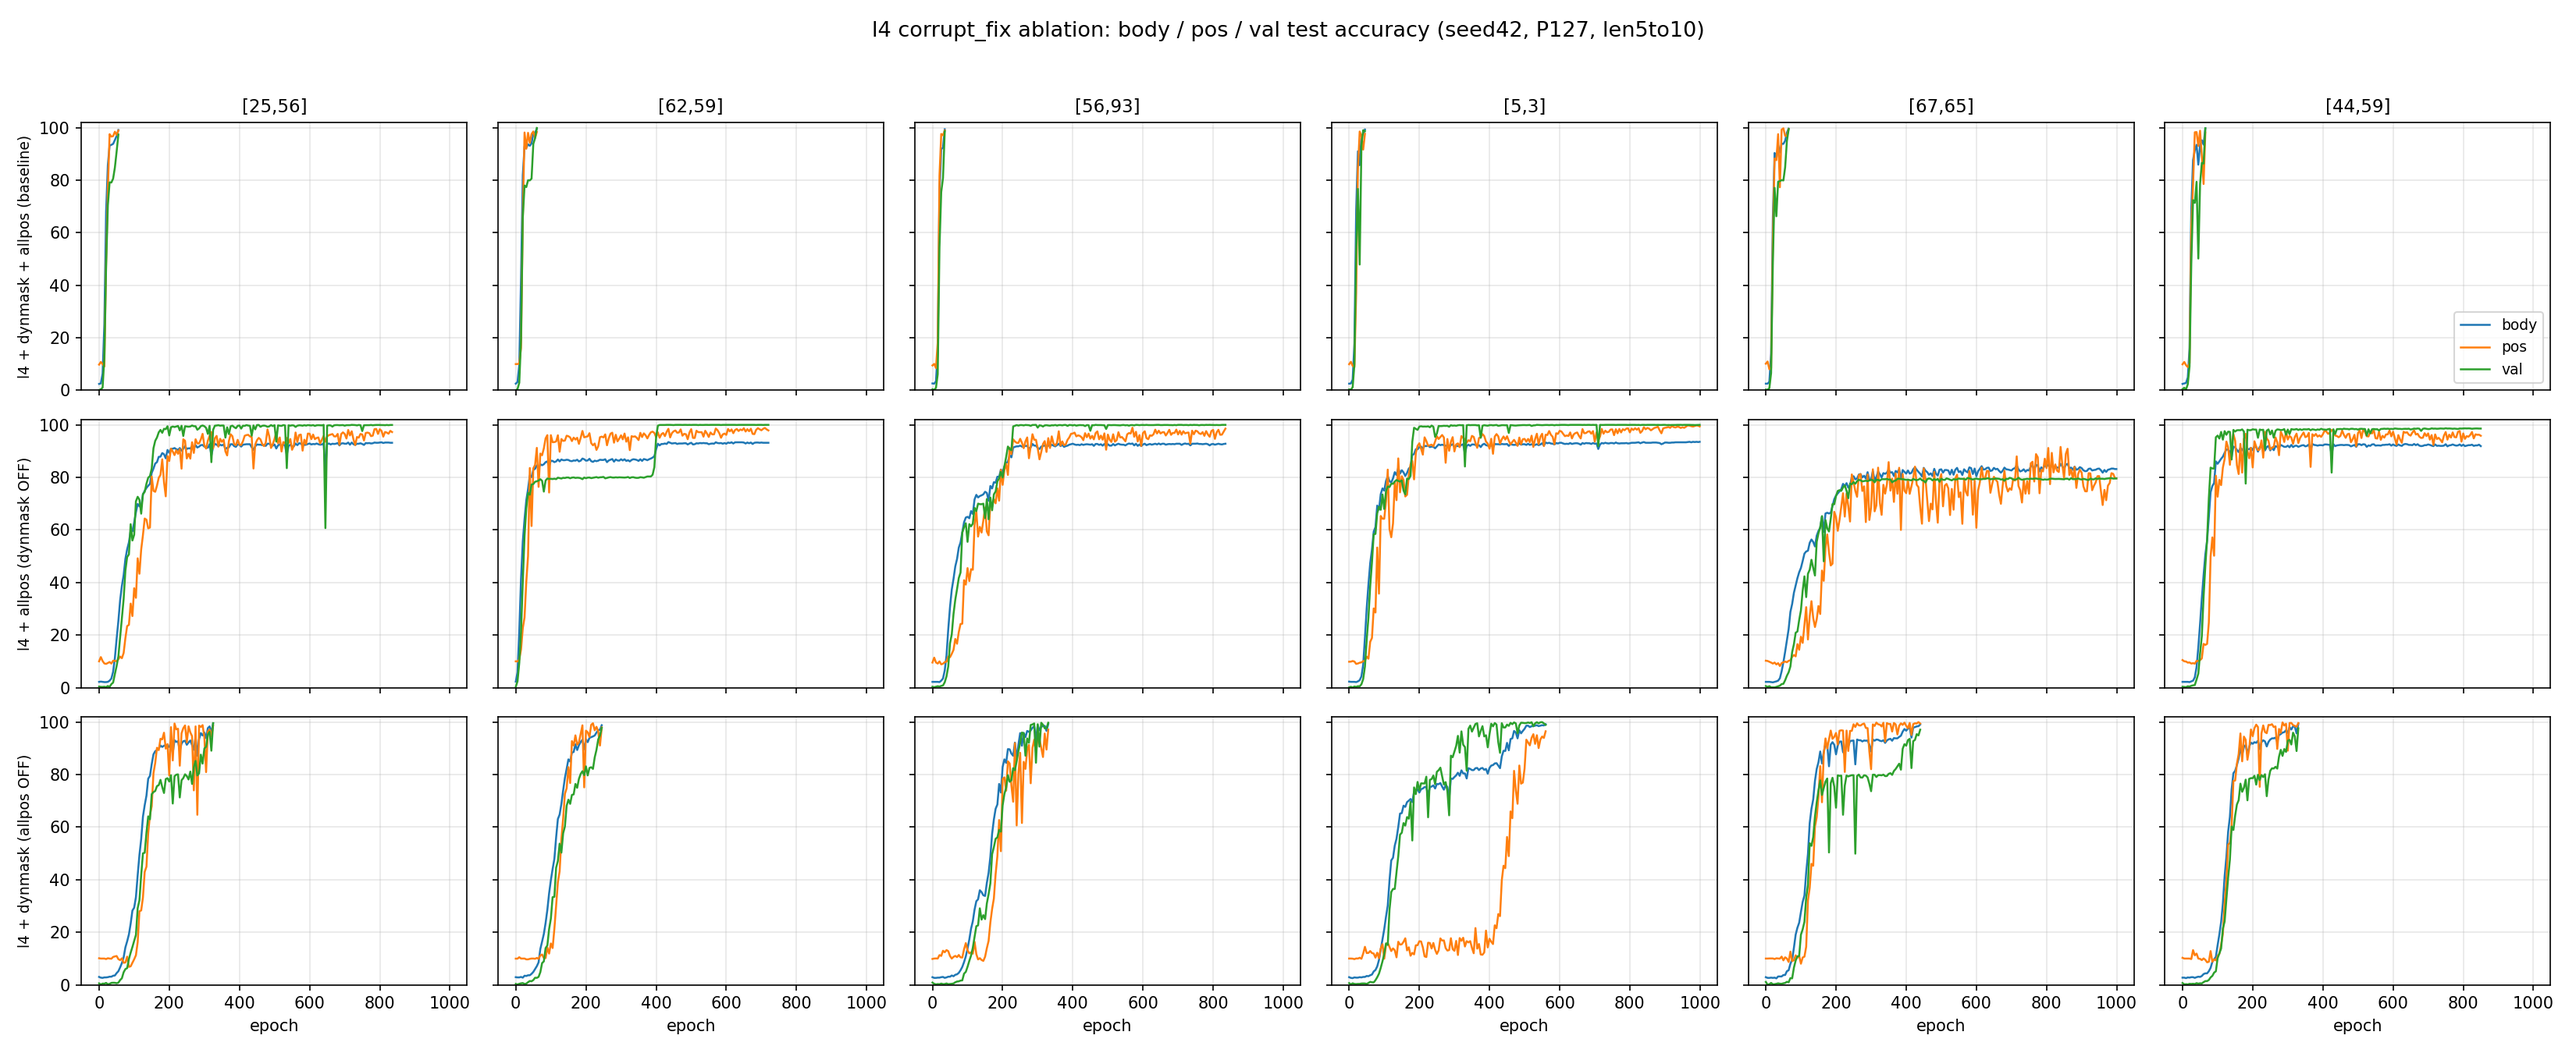
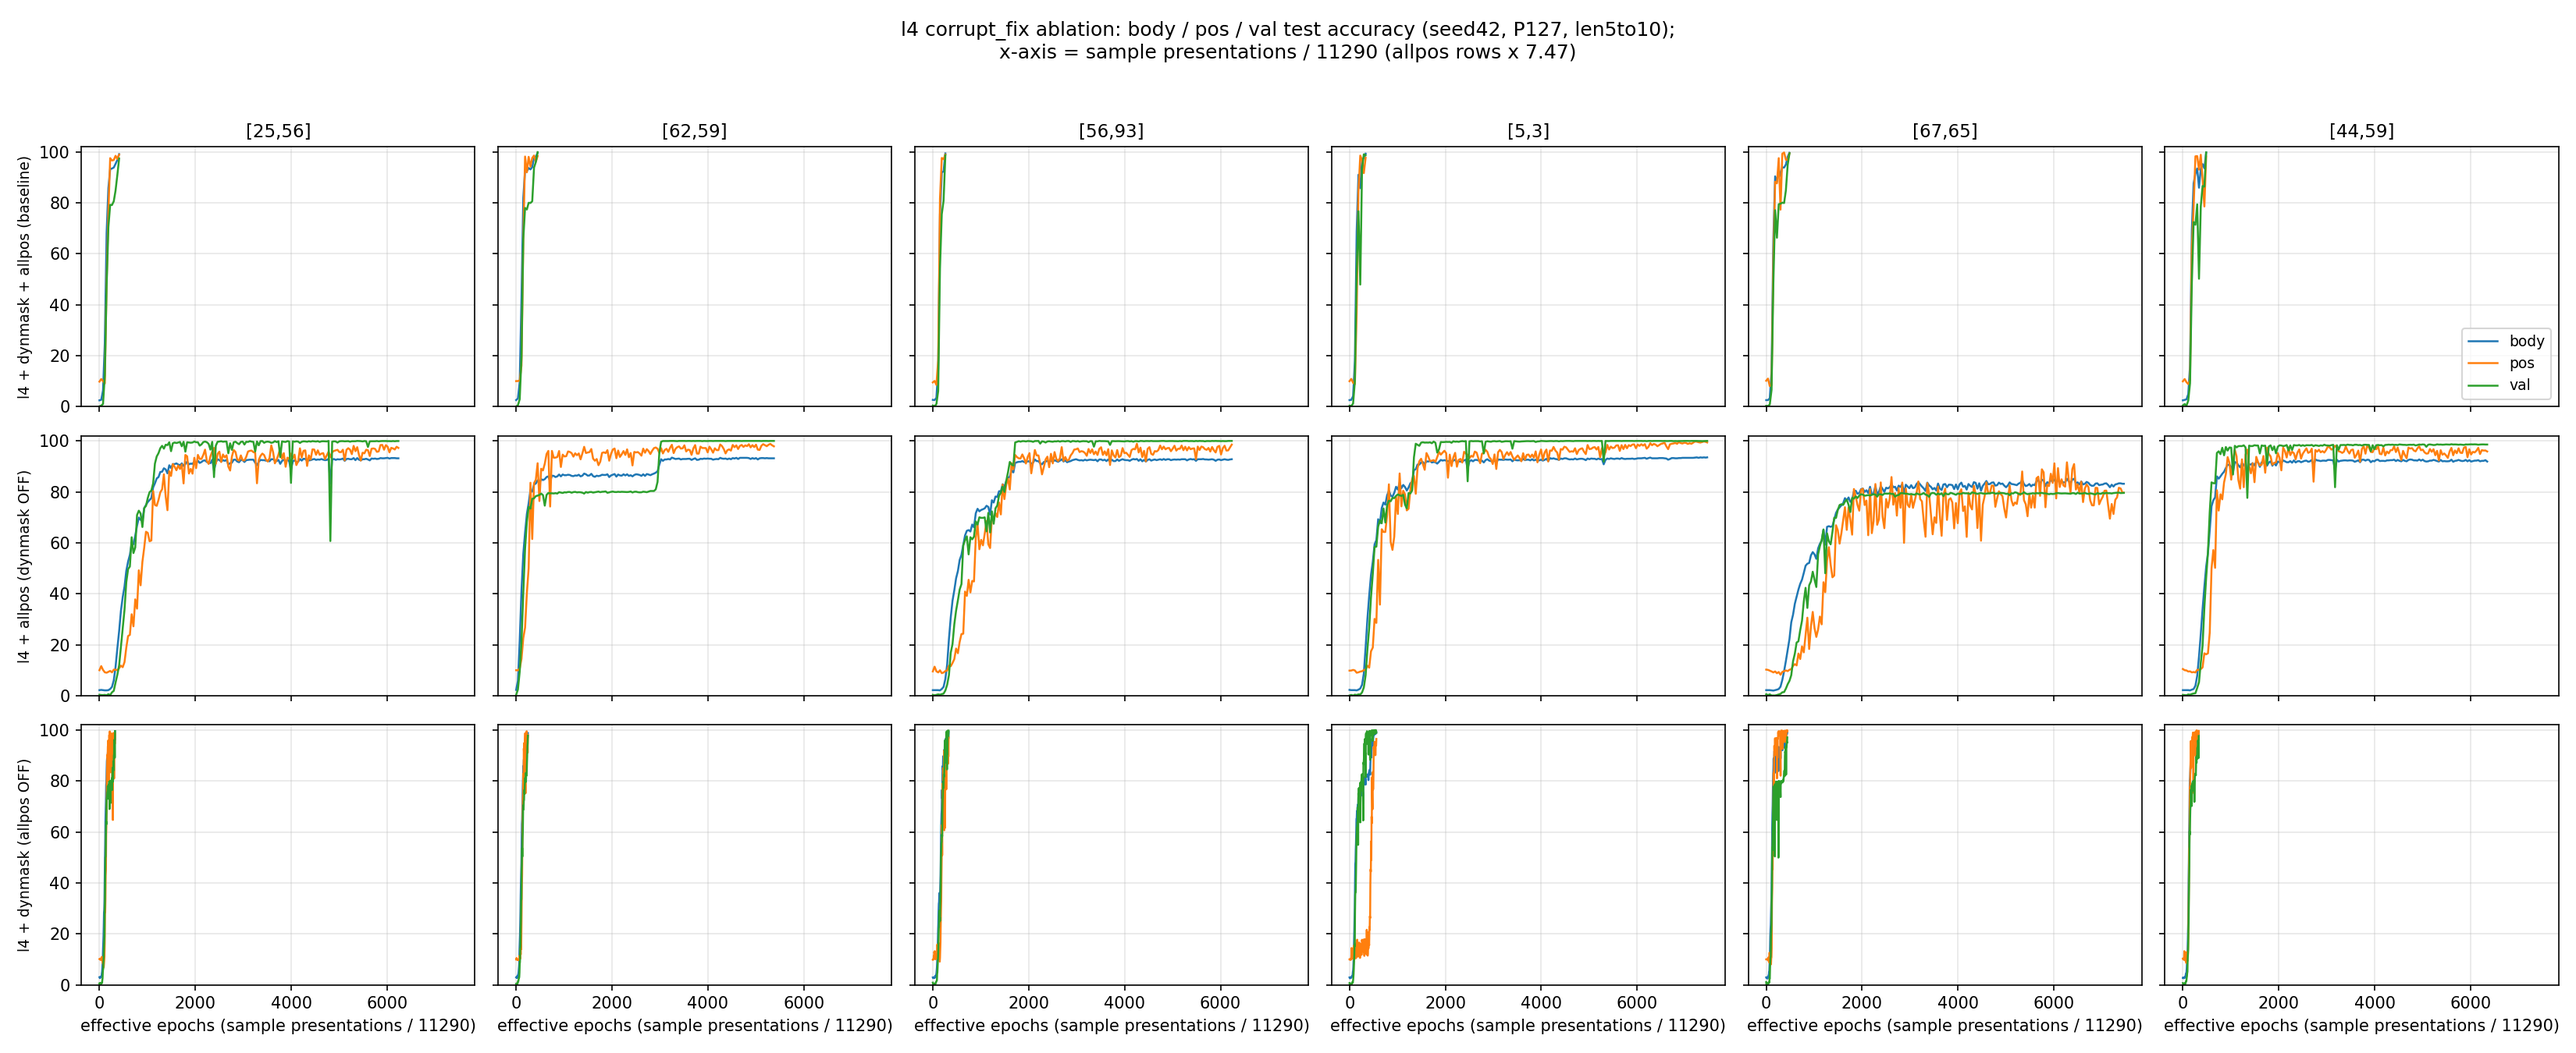
l4 ablation fig: normalize x-axis to sample presentations (allpos rows x7.47)
allpos-on rows converging at ~260-490 effective epochs vs allpos-off
~245-560 confirms allpos buys no sample efficiency

diff --git a/scripts/plot_l4_ablation_3x6.py b/scripts/plot_l4_ablation_3x6.py
@@ -12,10 +12,14 @@ PP_RE = re.compile(r'PosProbe (pos|val)\| (.*)')
 KV_RE = re.compile(r'k(\d+)=([\d.]+)')
 
 ROWS = [
-    ('l4 + dynmask + allpos (baseline)', 'variant_o2_corruptfix_allpos_dynmask_d512l4_P127_len5to10', 'allpos_dynmask'),
-    ('l4 + allpos (dynmask OFF)', 'variant_o2_corruptfix_allpos_d512l4_P127_len5to10', 'allpos'),
-    ('l4 + dynmask (allpos OFF)', 'variant_o2_corruptfix_dynmask_d512l4_P127_len5to10', 'dynmask'),
+    # (label, dirname, suffix, allpos_on)  allpos_on -> x 轴乘以每窗口展开倍数
+    # （一个 allpos epoch = 每个窗口在全部 ~7.47 个位置各出现一次 = 7.47 个 allpos-off epoch 的呈现量）
+    ('l4 + dynmask + allpos (baseline)', 'variant_o2_corruptfix_allpos_dynmask_d512l4_P127_len5to10', 'allpos_dynmask', True),
+    ('l4 + allpos (dynmask OFF)', 'variant_o2_corruptfix_allpos_d512l4_P127_len5to10', 'allpos', True),
+    ('l4 + dynmask (allpos OFF)', 'variant_o2_corruptfix_dynmask_d512l4_P127_len5to10', 'dynmask', False),
 ]
+# 84307 (allpos 展开) / 11290 (原始窗数) = 平均窗口长 ≈ 7.47
+ALLPOS_FACTOR = 84307 / 11290
 COEFS = [(25,56),(62,59),(56,93),(5,3),(67,65),(44,59)]
 
 
@@ -48,7 +52,7 @@ def parse(path):
 
 
 fig, axes = plt.subplots(3, 6, figsize=(22, 9), sharex=True, sharey=True)
-for r, (rowlabel, dirname, suffix) in enumerate(ROWS):
+for r, (rowlabel, dirname, suffix, allpos_on) in enumerate(ROWS):
     for c, (a, b) in enumerate(COEFS):
         ax = axes[r][c]
         pat = f'/data/cxm/recursion/{dirname}/logs/*a{a}b{b}_d512l4r8h4_P127_len5to10_{suffix}_seed42.log'
@@ -57,6 +61,8 @@ for r, (rowlabel, dirname, suffix) in enumerate(ROWS):
             ax.set_title(f'a{a}b{b} MISSING', fontsize=9)
             continue
         ep, body, pos, val = parse(files[0])
+        if allpos_on:
+            ep = [e * ALLPOS_FACTOR for e in ep]
         ax.plot(ep, body, color='tab:blue', lw=1.2, label='body')
         ax.plot(ep, pos, color='tab:orange', lw=1.2, label='pos')
         ax.plot(ep, val, color='tab:green', lw=1.2, label='val')
@@ -67,9 +73,10 @@ for r, (rowlabel, dirname, suffix) in enumerate(ROWS):
         if c == 0:
             ax.set_ylabel(rowlabel, fontsize=9)
         if r == 2:
-            ax.set_xlabel('epoch')
+            ax.set_xlabel('effective epochs (sample presentations / 11290)')
 axes[0][5].legend(loc='lower right', fontsize=9)
-fig.suptitle('l4 corrupt_fix ablation: body / pos / val test accuracy (seed42, P127, len5to10)', fontsize=13)
+fig.suptitle('l4 corrupt_fix ablation: body / pos / val test accuracy (seed42, P127, len5to10);\n'
+             'x-axis = sample presentations / 11290 (allpos rows x 7.47)', fontsize=12)
 fig.tight_layout(rect=(0, 0, 1, 0.96))
 out = 'plots/variant_o2_l4_ablation_body_pos_val_3x6.png'
 fig.savefig(out, dpi=150)
